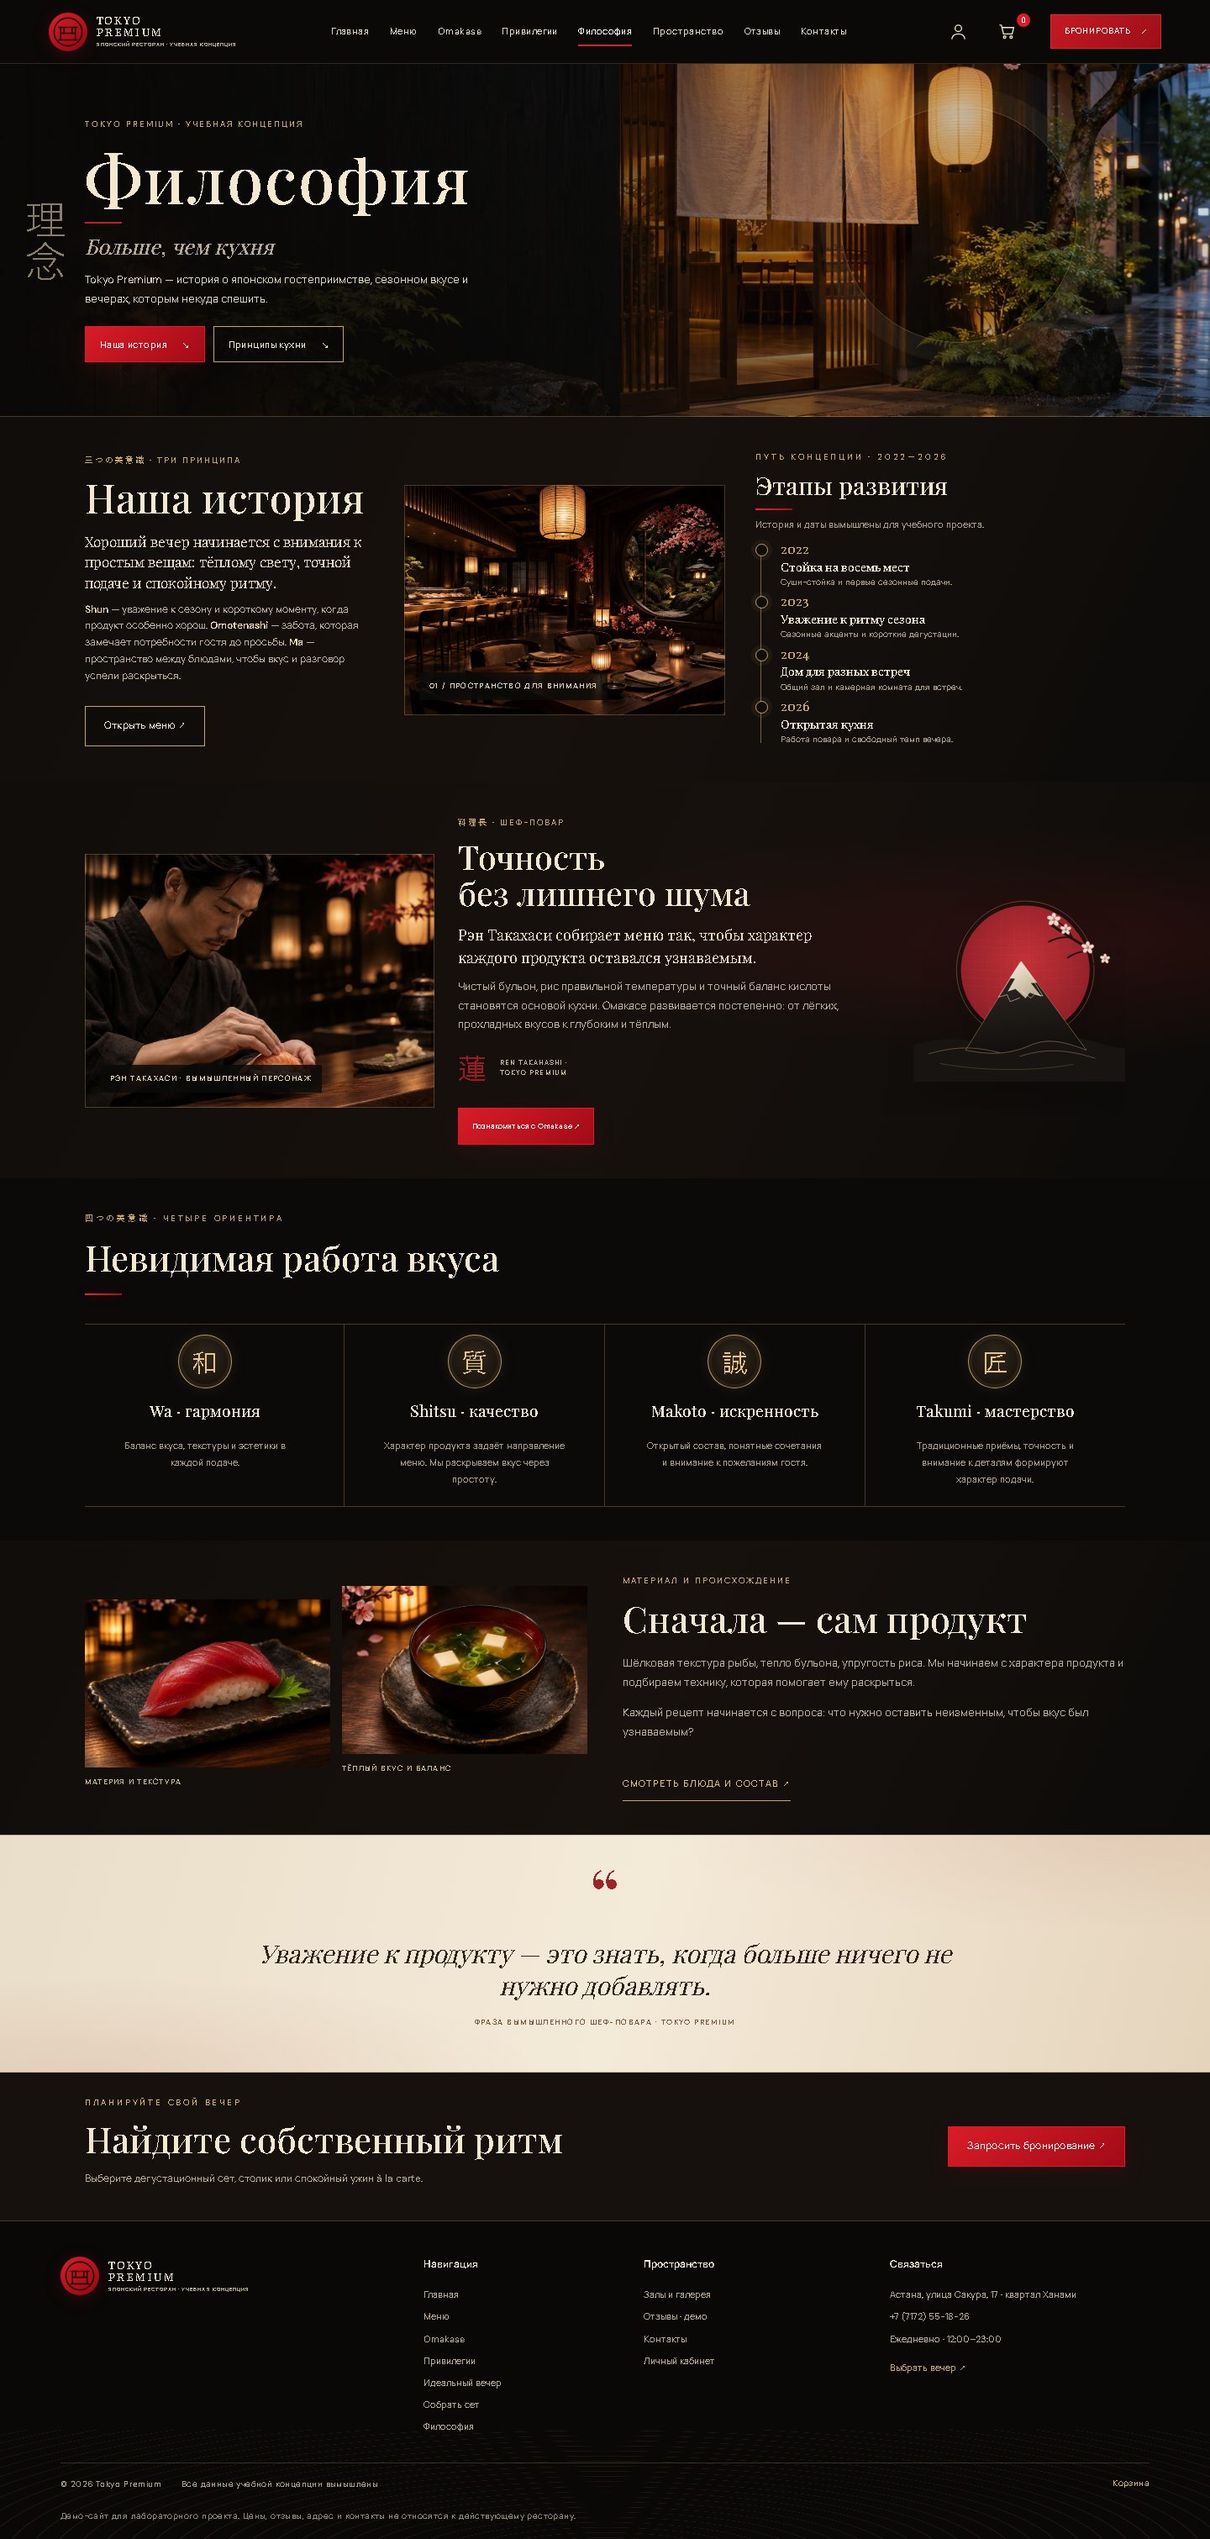
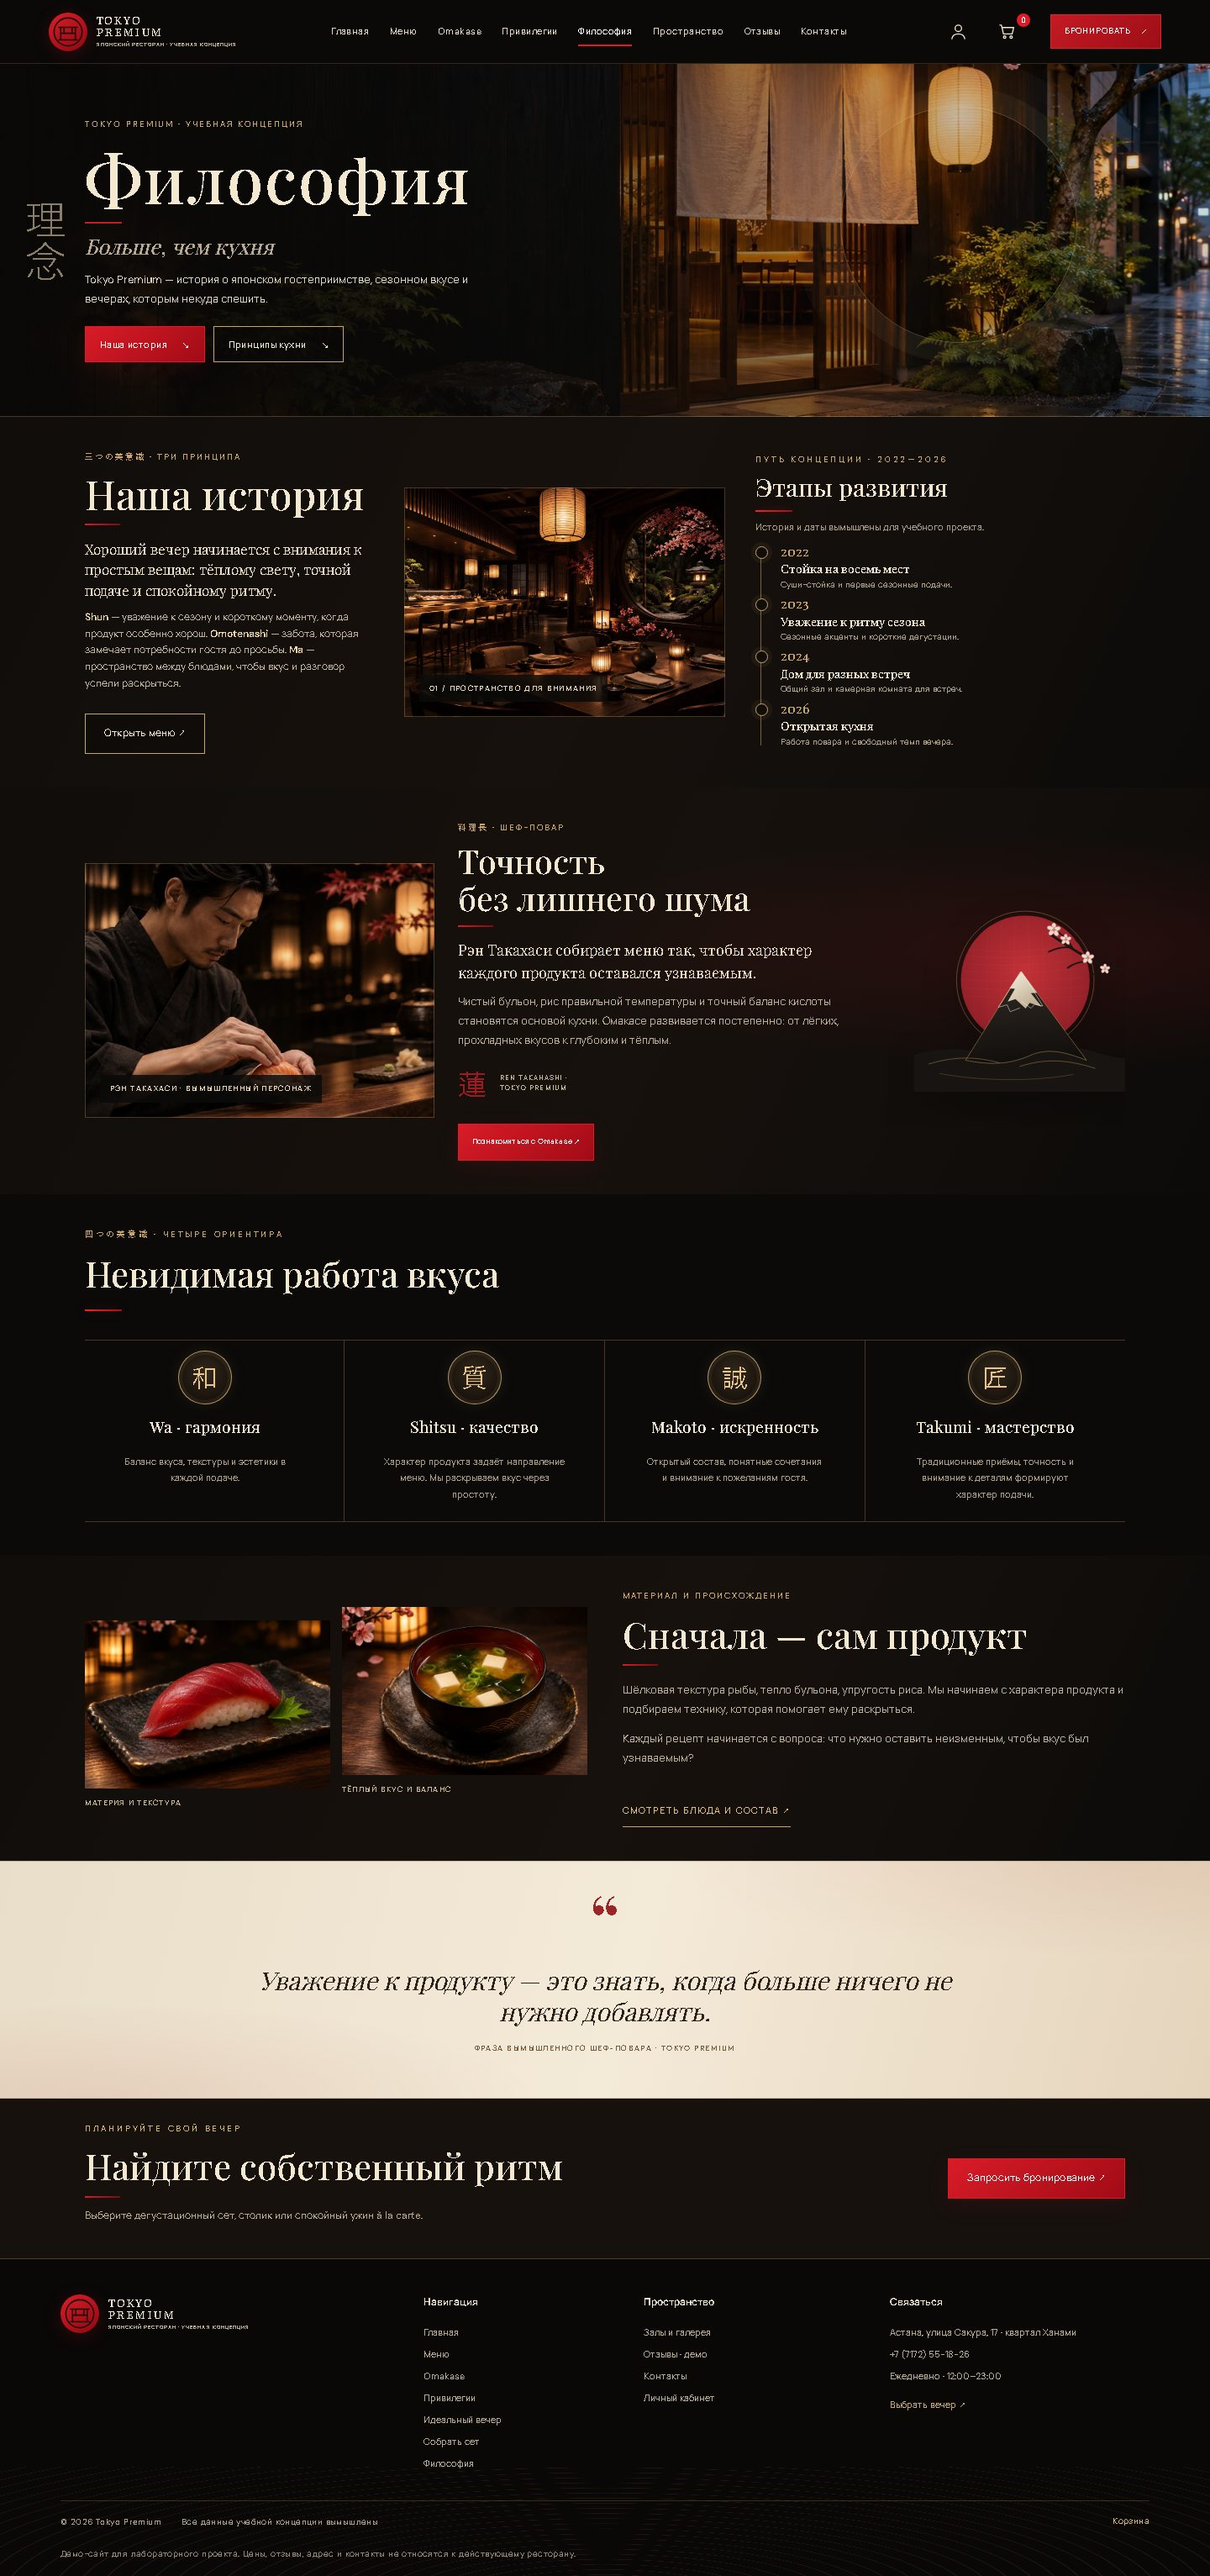
Restore_philosophy_section_accent_rules

diff --git a/docs/experience-ui.css b/docs/experience-ui.css
@@ -688,3 +688,17 @@
   .about-page .about-quote blockquote{font-size:clamp(23px,2.1vw,32px);line-height:1.25}
   .about-page .about-contact{padding-block:clamp(20px,2vw,28px)}
 }
+
+/* Keep the red editorial divider under the plain-copy philosophy headings,
+   matching the section-title treatment used elsewhere in the experience. */
+.about-page .about-story .about-copy h2::after,
+.about-page .about-chef .about-copy h2::after,
+.about-page .about-source .source-copy h2::after,
+.about-page .about-contact h2::after{
+  display:block;
+  width:42px;
+  height:2px;
+  margin-top:11px;
+  background:linear-gradient(90deg,#d51b27,#7e0b13);
+  content:"";
+}

diff --git a/experience-ui.css b/experience-ui.css
@@ -688,3 +688,17 @@
   .about-page .about-quote blockquote{font-size:clamp(23px,2.1vw,32px);line-height:1.25}
   .about-page .about-contact{padding-block:clamp(20px,2vw,28px)}
 }
+
+/* Keep the red editorial divider under the plain-copy philosophy headings,
+   matching the section-title treatment used elsewhere in the experience. */
+.about-page .about-story .about-copy h2::after,
+.about-page .about-chef .about-copy h2::after,
+.about-page .about-source .source-copy h2::after,
+.about-page .about-contact h2::after{
+  display:block;
+  width:42px;
+  height:2px;
+  margin-top:11px;
+  background:linear-gradient(90deg,#d51b27,#7e0b13);
+  content:"";
+}

diff --git a/project-docs/final-modernization-report.md b/project-docs/final-modernization-report.md
@@ -696,3 +696,7 @@ Commit `c7ffe62` was pushed to `main`; GitHub Actions [run 45143146646](https://
 ## 2026-11-23 — philosophy page compact desktop rhythm
 
 Reduced excess vertical spacing on the desktop philosophy page and shortened its fictional timeline copy. The changes are scoped to widths above 1100 px; the 390 px mobile layout keeps its stacked spacing. The Pages export passed the focused Playwright visual check at 390 and 1440 px, including image loading, heading bounds, document overflow and JavaScript page errors. Current full-page heights are 5769 px at 390 px and 3039 px at 1440 px. The approved reference is still about 41% shorter when scaled to the same desktop width, so this closes only part of the visual gap. Commit [`038413a`](https://github.com/altento/tokyo-premium/commit/038413a04ca8ef5a4227fca3333b78aa79bffa87) deployed successfully in [workflow 45155137552](https://github.com/altento/tokyo-premium/actions/runs/45155137552); the focused public check passed at 390 and 1440 px. Evidence and comparison: [`visual-qa/philosophy-compact-2026-11-23-static/`](visual-qa/philosophy-compact-2026-11-23-static/comparison.md), including `public/` captures. PHP browser rendering was not verified: the available PHP CLI lacks PDO SQLite.
+
+## 2026-11-23 — philosophy red section dividers
+
+Restored the recurring crimson rule beneath the story, chef, sourcing and contact headings on the philosophy page, synchronized between PHP/source and Pages CSS. Focused Playwright verification passed at 390 px and 1440 px and now asserts the four rules exist and are visible; screenshots were refreshed and inspected. The rest of the page's documented reference mismatch remains open. Local PHP browser rendering is still limited by the missing PDO SQLite driver. Public deployment verification is pending for this follow-up commit.

diff --git a/project-docs/visual-qa/philosophy-compact-2026-11-23-static/comparison.md b/project-docs/visual-qa/philosophy-compact-2026-11-23-static/comparison.md
@@ -18,6 +18,10 @@ I opened the approved PNG and inspected it alongside the new full-page desktop c
 
 The local PHP CLI is PHP 8.5.11 but lacks PDO SQLite. A PHP-rendered capture failed in the footer because the database driver is unavailable, so this comparison uses the static Pages export only and does not claim PHP browser verification.
 
+## Red section dividers follow-up
+
+The reference's recurring red section accent was missing under the philosophy story, chef, sourcing and contact headings. Added the same 42 × 2 px crimson rule beneath those four headings in the source and Pages CSS. The focused Playwright check now verifies all four pseudo-elements are visible, in addition to the existing image, title-bound and overflow checks. At 390 px and 1440 px the local Pages export passed; refreshed full-page captures and metrics are saved here. This corrects the missing accent only and does not close the documented full-page composition gap.
+
 ## Public verification
 
 After commit [`038413a`](https://github.com/altento/tokyo-premium/commit/038413a04ca8ef5a4227fca3333b78aa79bffa87) deployed successfully in [workflow 45155137552](https://github.com/altento/tokyo-premium/actions/runs/45155137552), the same focused Playwright check passed against the public GitHub Pages route at 390 and 1440 px. Public screenshots and metrics are in [`public/`](public/). The live 1440 px document is 3039 CSS px tall and uses the compact desktop story spacing. CI's optional full browser suite was skipped by the fast profile; this public visual check ran separately with the repository Playwright test.
